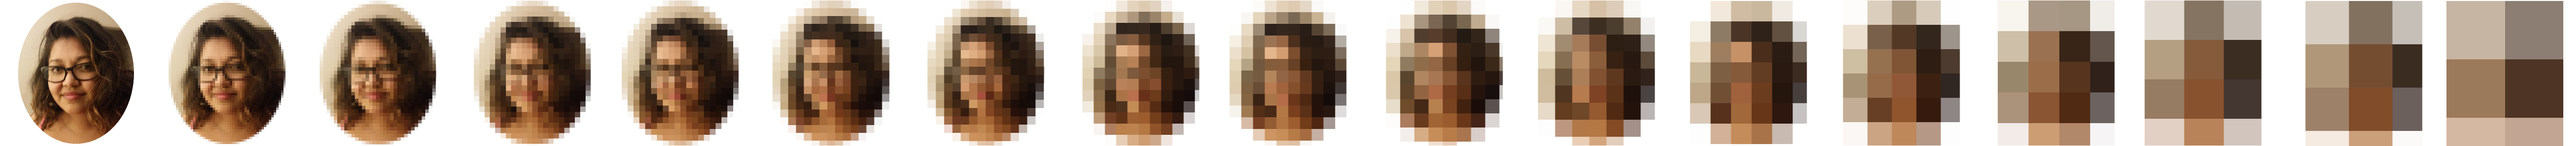
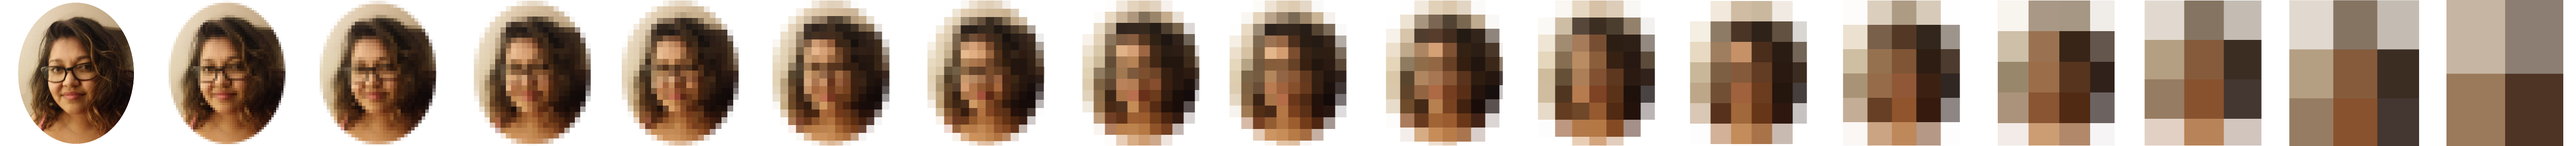
Made some changes to the pixelated photo

Changed region(s): [[0.8713, 0.0, 0.9958, 1.0]]

diff --git a/style.css b/style.css
@@ -5,7 +5,7 @@ body {
 .headerimg {
   width: 310px;
   height: 300px;
-  background: url("http://i.imgur.com/oMiKGyW.png");
+  background: url("http://i.imgur.com/ifckBKU.png");
   background-position: -4960px;
   position: absolute;
   margin: auto;
